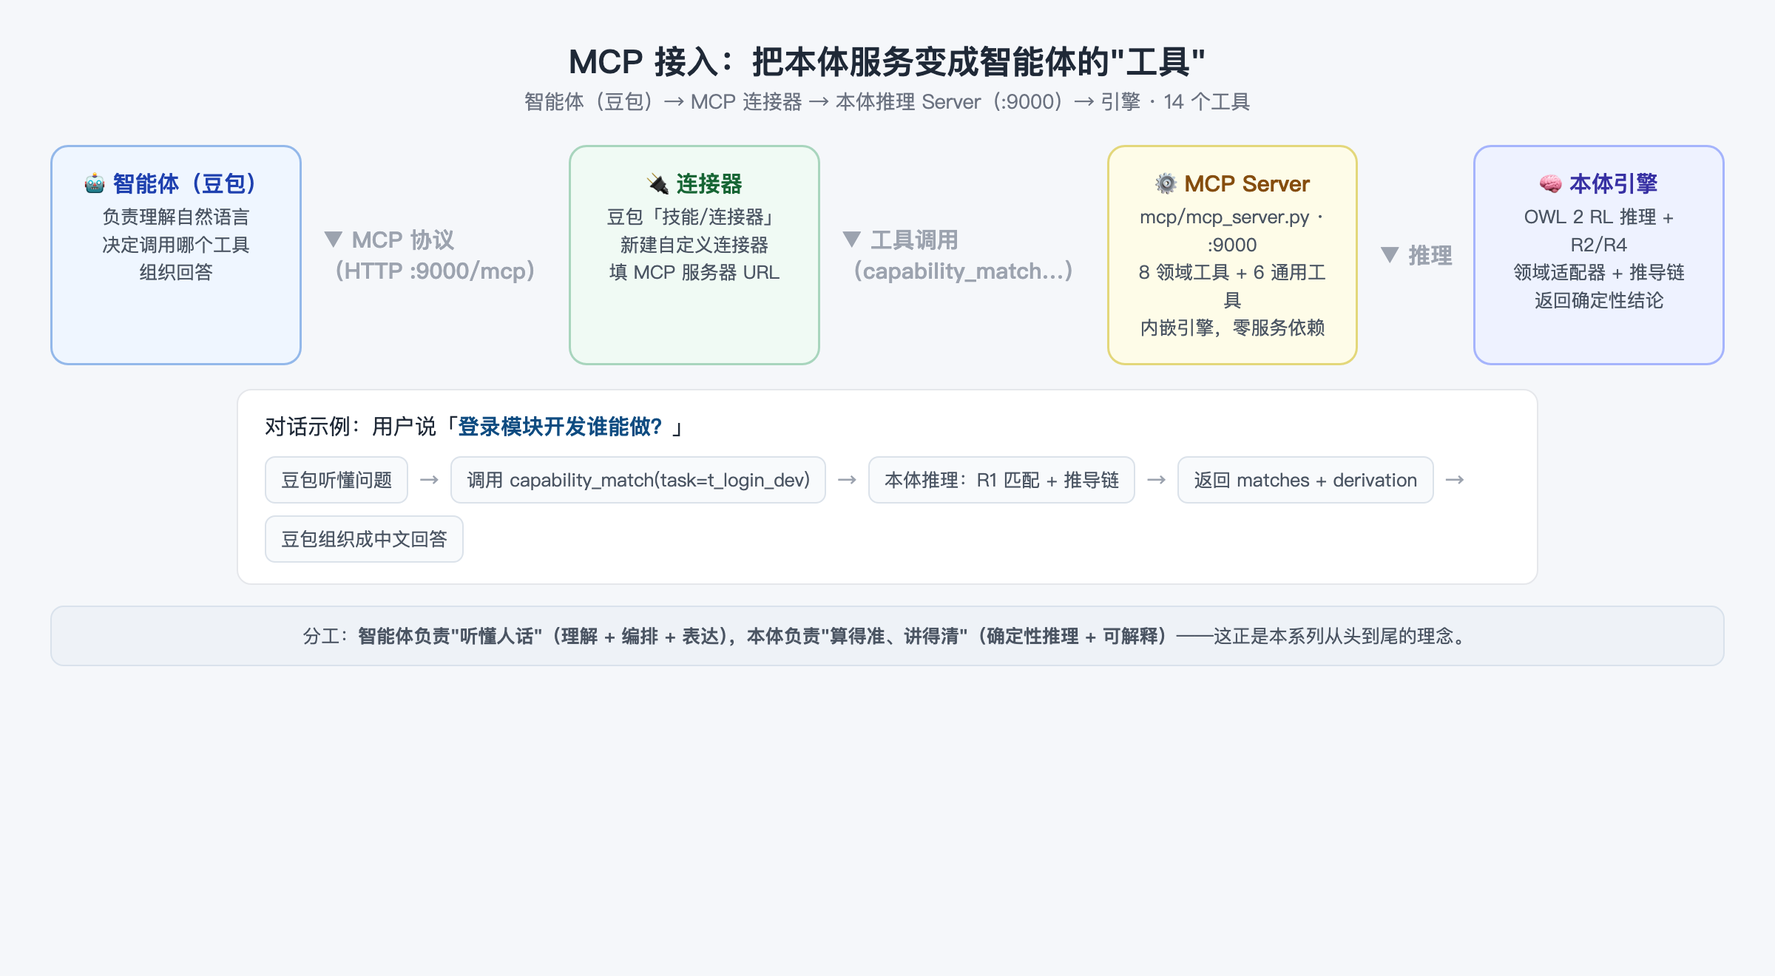
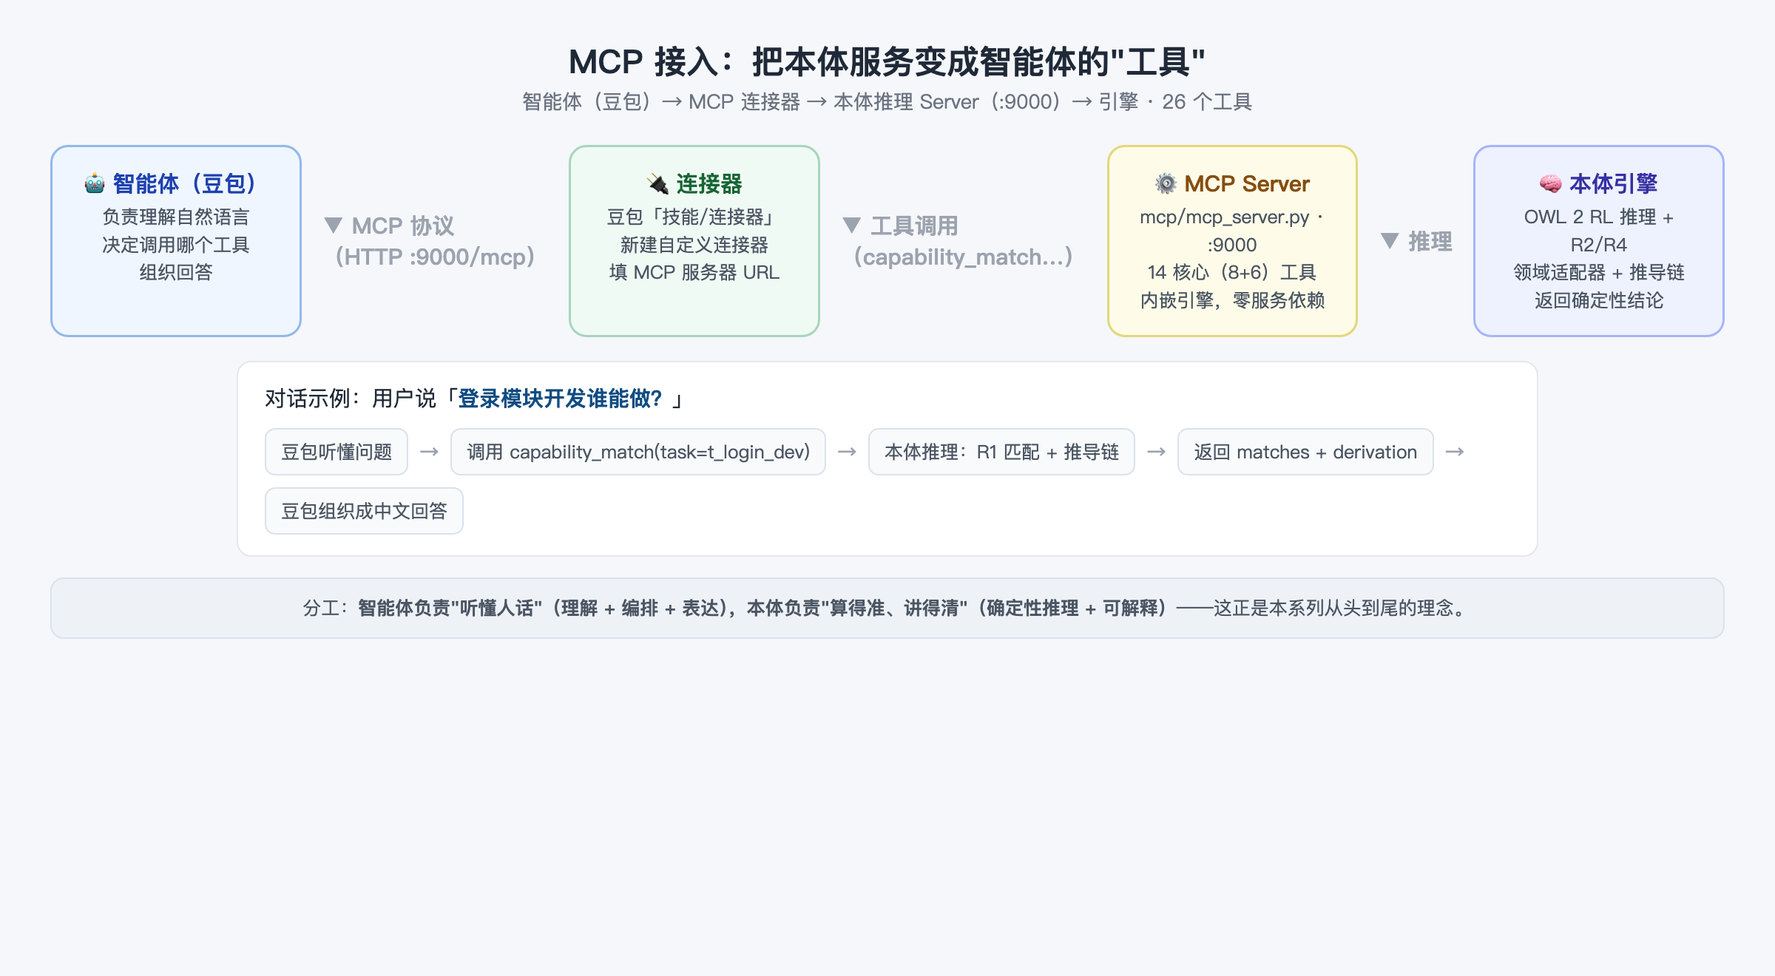
docs: 打磨本体上手指南系列（对齐真实功能、清除 GitHub 引流、清理死文件）
- 修正跨篇引用：05 新标题、工具数 26/端点 24、测试 178、infer 776→824

- 06 配图重渲为 2x PNG，对齐真实 26 工具（14 核心 + 12 进阶）

- 删除 05 重写遗留的 05-architecture 死文件（html + png）

- 清除全系列 GitHub 引流：开头引用块、结尾「获取项目」小节、README 在线阅读链接

diff --git a/docs/guide/assets/06-mcp-arch.html b/docs/guide/assets/06-mcp-arch.html
@@ -30,7 +30,7 @@
 <body>
 <div class="wrap">
   <div class="title">MCP 接入：把本体服务变成智能体的"工具"</div>
-  <div class="sub">智能体（豆包）→ MCP 连接器 → 本体推理 Server（:9000）→ 引擎 · 14 个工具</div>
+  <div class="sub">智能体（豆包）→ MCP 连接器 → 本体推理 Server（:9000）→ 引擎 · 26 个工具</div>
 
   <div class="row">
     <div class="box b1">
@@ -45,7 +45,7 @@
     <div class="conn">▼ 工具调用<br>（capability_match…）</div>
     <div class="box b3">
       <div class="en">⚙ MCP Server</div>
-      <div class="zh">mcp/mcp_server.py · :9000<br>8 领域工具 + 6 通用工具<br>内嵌引擎，零服务依赖</div>
+      <div class="zh">mcp/mcp_server.py · :9000<br>14 核心（8+6）工具<br>内嵌引擎，零服务依赖</div>
     </div>
     <div class="conn">▼ 推理</div>
     <div class="box b4">

diff --git a/docs/guide/06-MCP接入智能体.md b/docs/guide/06-MCP接入智能体.md
@@ -1,7 +1,5 @@
 # 06 用 MCP 把本体服务接入智能体
 > 本文是《本体上手指南》系列第 7 篇（共 9 篇），零基础入门「本体 × 智能体」。
-> 完整系列文章与全部源码都在 GitHub：**https://github.com/jasony62/ontology-agent-demo**（欢迎 Star / Fork / Issue）
-> 在线免费阅读（GitHub Pages）：https://jasony62.github.io/ontology-agent-demo/
 
 > 阅读时长：约 12 分钟 · 配套动手：约 8 分钟
 > **读完你能**：把本体推理服务接进豆包，让它在对话里直接调用推理工具——"智能体 × 本体"正式合体
@@ -45,11 +43,11 @@ docker compose up -d mcp    # 容器内启动 MCP Server（:9000）
 2. 传输类型选 **HTTP**，MCP 服务器 URL 填 `http://127.0.0.1:9000/mcp`；
 3. 保存后即可在对话中直接调用本体推理工具。
 
-> 连接器本质：把"对话中能看到哪些工具"告诉豆包。保存后豆包就"认识"了本体的 14 个工具。
+> 连接器本质：把"对话中能看到哪些工具"告诉豆包。保存后豆包就"认识"了本体的 26 个工具。
 
-## 第 3 步：认识 14 个工具
+## 第 3 步：认识 26 个工具
 
-服务共暴露 **14 个工具**：8 个领域工具（业务语义）+ 6 个通用工具（与本体无关）。
+服务共暴露 **26 个工具**，分「核心业务工具」与「进阶 / 作者态工具」两组。核心 14 个是接入对话最常用、也是本篇演示用到的；进阶 12 个面向本体建模、校验、守卫与证明，做"造自己的领域"（篇 8）时才会用到。
 
 **领域工具（8 个，走适配器）**
 
@@ -76,6 +74,23 @@ docker compose up -d mcp    # 容器内启动 MCP Server（:9000）
 | `infer` | — | 重新推理 + 三元组统计 |
 
 有个小细节很贴心：`entities` 工具专门用来"帮智能体选参数"——它返回全部任务/智能体/能力/约束的短名与中文标签，智能体不确定参数时先查它，避免瞎猜短名。
+
+**进阶 / 作者态工具（12 个，完整列表以 MCP `tools/list` 返回为准）**
+
+| 工具 | 说明 |
+|---|---|
+| `status` | 服务与当前领域状态自检 |
+| `active_facts` | 查看推理后的"激活事实"图（raw → g 的结果） |
+| `explain_proof` | 机读证明树（`proof`，与 `explain` 的人读推导链互补） |
+| `predefined_queries` | 列出预置的 SPARQL 查询模板 |
+| `run_predefined_query` | 按名运行一条预置查询 |
+| `guide_tbox_draft` | 引导式草拟 TBox（类 / 属性 / 公理） |
+| `validate_tbox_draft` | 校验草拟 TBox 的合法性 |
+| `validate_shapes` | 校验 SHACL Shapes |
+| `guide_cq_generation` | 引导生成本体能力问题（CQ） |
+| `validate_cqs` | 校验能力问题（CQ） |
+| `guard_status` | 查看守卫（guard）状态 |
+| `pipeline_gate` | 流水线闸门状态与触发 |
 
 ## 第 4 步：对话演示完整链路
 
@@ -105,16 +120,16 @@ docker compose up -d mcp    # 容器内启动 MCP Server（:9000）
 |---|---|---|
 | 面向 | 前端页面、脚本、任何 HTTP 客户端 | 智能体（豆包连接器等 MCP 客户端） |
 | 协议 | HTTP + JSON | MCP（JSON-RPC / SSE） |
-| 工具/端点 | 11 个端点 | 14 个工具 |
+| 工具/端点 | 24 个端点 | 26 个工具 |
 | 依赖 | 独立进程 | 内嵌引擎，不依赖 REST |
 
-两者共享**同一套引擎与领域包**——这就是篇 5 架构图的"多通道出口"：**同一种能力，按消费方选通道**。脚本和前端走 REST；智能体走 MCP。
+两者共享**同一套引擎与领域包**——这就是篇 5（搭建本体推理服务）所讲的服务"多通道出口"：**同一种能力，按消费方选通道**。脚本和前端走 REST；智能体走 MCP。
 
 ## 小结
 
 1. **MCP = 智能体的 USB 接口**：能力封装成标准工具，智能体自动发现、按说明调用。
 2. **一行命令启动**：`docker compose up -d mcp`，内嵌引擎零依赖；豆包侧边栏加连接器即可接入。
-3. **14 个工具**：8 领域（匹配/编排/分配/分类/一致性/解释/图谱/实体）+ 6 通用（SPARQL 等）。
+3. **26 个工具**：14 核心（匹配/编排/分配/分类/一致性/解释/图谱/实体 + SPARQL 等通用）+ 12 进阶（建模/校验/守卫/证明，篇 8 用到）。
 4. **智能体听懂人话，本体算得准讲得清**——MCP 是两者的"合体通道"。
 
 **常见问题**
@@ -123,20 +138,6 @@ docker compose up -d mcp    # 容器内启动 MCP Server（:9000）
   A：REST 是"人/程序按文档调用"；MCP 是"智能体自动发现并调用"——工具带机器可读的 schema 和描述，智能体自己决定何时调用哪个。对本项目而言，二者背后是同一个引擎。
 - **Q：只能接豆包吗？**
   A：不是。任何 MCP 客户端都能接：`--transport stdio` 可接本地客户端 / Claude Desktop；streamable-http 可接其他支持 MCP 的智能体平台。
-
-## 获取项目：GitHub 一键直达
-
-本系列全部 9 篇文章、项目源码与可运行示例：
-
-- **GitHub 仓库**：https://github.com/jasony62/ontology-agent-demo（Star / Fork / Issue 都欢迎）
-- **在线阅读**：https://jasony62.github.io/ontology-agent-demo/（GitHub Pages 自动构建，含全部配图）
-- **本地一键运行**：
-
-  ```bash
-  git clone https://github.com/jasony62/ontology-agent-demo.git
-  cd ontology-agent-demo
-  docker compose up -d api
-  ```
 
 ---
 **下一篇**：篇 7《智能体 × 本体协作实战》——总结分工模型与最佳实践，并教你判断"什么时候该用本体"。

diff --git a/docs/guide/03-本体推理原理.md b/docs/guide/03-本体推理原理.md
@@ -1,7 +1,5 @@
 # 03 本体推理原理：从公理到推导链
 > 本文是《本体上手指南》系列第 4 篇（共 9 篇），零基础入门「本体 × 智能体」。
-> 完整系列文章与全部源码都在 GitHub：**https://github.com/jasony62/ontology-agent-demo**（欢迎 Star / Fork / Issue）
-> 在线免费阅读（GitHub Pages）：https://jasony62.github.io/ontology-agent-demo/
 
 > 阅读时长：约 15 分钟 · 配套动手：约 8 分钟
 > **读完你能**：说清"机器如何从显式知识推出隐式知识"，理解 R1–R4 各自由谁实现，并能读懂推导链
@@ -156,7 +154,7 @@ docker compose exec api python scripts/query.py assign \
 实测推理统计（`infer` 命令）：
 
 ```json
-{ "triples_before": 775, "triples_after": 824, "added": 49, "classes": 29, "individuals": 13 }
+{ "triples_before": 776, "triples_after": 824, "added": 49, "classes": 29, "individuals": 13 }
 ```
 
 一次推理新增 49 条三元组——绝大多数是 `can_execute` 和传递闭包，全部是"没写出来但必然成立"的知识。
@@ -190,7 +188,7 @@ docker compose exec api python scripts/query.py assign \
 
 ## 动手：跑一遍推理
 
-所有命令都在 Docker 容器内执行（依赖已内置，无需宿主机装 Python 环境；篇 5 会完整介绍服务的容器化用法）：
+所有命令都在 Docker 容器内执行（依赖已内置，无需宿主机装 Python 环境；篇 5（搭建本体推理服务）会完整介绍服务的容器化用法）：
 
 **方式一：HTTP API（Docker 启动服务）**
 
@@ -243,20 +241,6 @@ docker compose exec api python scripts/query.py infer --pretty                  
 | `rdf:type rdf:resource="...#TransitiveProperty"` | 给 `p` 打"传递属性"标签 | `depends_on` | `p rdf:type owl:TransitiveProperty` |
 
 > 记忆口诀：**`domain/range` 管"谁能连谁"，`inverseOf` 管"换个方向也能说"，`TransitiveProperty` 管"能跨步"，`propertyChainAxiom` 管"两步并一步"。** 下一篇用 SPARQL 直接"问"这张图。
-
-## 获取项目：GitHub 一键直达
-
-本系列全部 9 篇文章、项目源码与可运行示例：
-
-- **GitHub 仓库**：https://github.com/jasony62/ontology-agent-demo（Star / Fork / Issue 都欢迎）
-- **在线阅读**：https://jasony62.github.io/ontology-agent-demo/（GitHub Pages 自动构建，含全部配图）
-- **本地一键运行**：
-
-  ```bash
-  git clone https://github.com/jasony62/ontology-agent-demo.git
-  cd ontology-agent-demo
-  docker compose up -d api
-  ```
 
 ---
 **下一篇**：篇 4《本体与知识图谱：一张图看懂》——理清"本体"与"图数据库"这两个总被混为一谈的概念。

diff --git a/docs/guide/00-为什么需要本体.md b/docs/guide/00-为什么需要本体.md
@@ -1,7 +1,5 @@
 # 00 为什么需要本体
 > 本文是《本体上手指南》系列第 1 篇（共 9 篇），零基础入门「本体 × 智能体」。
-> 完整系列文章与全部源码都在 GitHub：**https://github.com/jasony62/ontology-agent-demo**（欢迎 Star / Fork / Issue）
-> 在线免费阅读（GitHub Pages）：https://jasony62.github.io/ontology-agent-demo/
 
 > 阅读时长：约 8 分钟 · 配套动手：约 5 分钟
 > **读完你能**：说清"为什么要用本体"，并看懂本系列的学习路径
@@ -59,7 +57,7 @@
 | | 篇 2 解剖示例本体：智能体任务编排 | 看清"这个本体里有什么" |
 | **B 推理与图谱** | 篇 3 本体推理原理：从公理到推导链 | 理解机器如何"推出"结论 |
 | | 篇 4 本体与知识图谱：一张图看懂 | 讲清本体和图的区别 |
-| **C 服务搭建** | 篇 5 半小时搭建本体推理服务 | 独立跑起 REST API + CLI |
+| **C 服务搭建** | 篇 5 搭建本体推理服务 | 独立跑起 REST API + CLI |
 | | 篇 6 用 MCP 把本体服务接入智能体 | 把服务接入豆包对话 |
 | **D 智能体应用** | 篇 7 智能体 × 本体协作实战 | 设计自己的"智能体+本体"应用 |
 | | 篇 8 把本体服务变成你自己的 | 换本体、新建领域、加规则 |
@@ -106,20 +104,6 @@ docker compose up -d api
   A：数据库负责"存"和"查"；本体除了组织知识，还能用规则**推理**出没存过的结论（比如"研发 Agent 可执行登录开发"并不是手工存进去的）。具体差别在篇 4 讲透。
 - **Q：需要先学会 OWL 或 Protege 吗？**
   A：完全不需要。本系列从零开始，篇 1 只用"类、个体、属性"三个词就能讲清本体的骨架；Protege 只是篇 2 的一个可选工具。
-
-## 获取项目：GitHub 一键直达
-
-本系列全部 9 篇文章、项目源码与可运行示例：
-
-- **GitHub 仓库**：https://github.com/jasony62/ontology-agent-demo（Star / Fork / Issue 都欢迎）
-- **在线阅读**：https://jasony62.github.io/ontology-agent-demo/（GitHub Pages 自动构建，含全部配图）
-- **本地一键运行**：
-
-  ```bash
-  git clone https://github.com/jasony62/ontology-agent-demo.git
-  cd ontology-agent-demo
-  docker compose up -d api
-  ```
 
 ---
 **下一篇**：篇 1《本体入门：类、个体、属性与关系》——用三个词读懂本体的骨架。

diff --git a/docs/guide/README.md b/docs/guide/README.md
@@ -4,7 +4,6 @@
 
 > 全程动手，命令在仓库根目录（`ontology-agent-demo/`）下可复现；配图源文件与 PNG 均在 `docs/guide/assets/`。
 > **零 OWL 基础友好**：篇 1/3/8 文末均附「本文用到的 OWL 语法」速查附录，正文在给出 .owl 片段时同步逐行讲解。
-> 在线阅读：[GitHub Pages 站点](https://jasony62.github.io/ontology-agent-demo/)（由本目录经 MkDocs 自动构建）。
 
 ## 学习路径
 
@@ -31,6 +30,8 @@
 | [07-智能体协作实战.md](07-智能体协作实战.md) | 智能体 × 本体实战 | 设计自己的协作应用，判断何时用本体 |
 | [08-扩展新领域.md](08-扩展新领域.md) | 扩展新领域 | 换本体、新建领域、加规则与查询 |
 
+> **编号对照（重要）**：本指南的篇号与「用户手册」的篇号**不同**——例如本指南的 **篇 5（搭建本体推理服务）** 正是用户手册的 **08 搭建本体推理服务**。两者是同一主题的两层：指南偏"入门讲解"，手册偏"操作参考"。跨文档跳转时认准主题名，别被编号带偏。
+
 ## 快速环境准备（Docker）
 
 无需安装任何 Python 依赖——用 Docker 一条命令起服务：
@@ -42,7 +43,7 @@ docker compose up -d     # 构建镜像并后台启动 API(:8000) + MCP(:9000)
 
 首次构建会自动拉取基础镜像并安装依赖（Dockerfile 默认用清华 TUNA pip 源）；之后秒级启动。
 
-验证（29 项测试全绿，在容器内执行）：
+验证（178 项测试全绿，在容器内执行）：
 
 ```bash
 docker compose exec api python -m pytest tests/ -q
@@ -88,7 +89,7 @@ docker compose exec api python -m pytest tests/ -q
 | 02-overview.png | 篇 2：本体全景 |
 | 03-r1-flow.png / 03-derivation.png | 篇 3：属性链流程 / 推导链 |
 | 04-lpg-vs-rdf.png | 篇 4：属性图 vs 语义图 |
-| 05-architecture.png | 篇 5：三层架构 |
+| 05-framework-overview.png / 05-ontology-components.png / 05-reasoning-flow.png / 05-explanation-layers.png | 篇 5：框架总览 / 四构件 / 推理流 / 解释层（共 4 张） |
 | 06-mcp-arch.png | 篇 6：MCP 接入链路 |
 | 07-sequence.png | 篇 7：协作时序 |
 | 08-extend.png | 篇 8：三条扩展路径 |

diff --git a/docs/guide/04-本体与知识图谱.md b/docs/guide/04-本体与知识图谱.md
@@ -1,7 +1,5 @@
 # 04 本体与知识图谱：一张图看懂
 > 本文是《本体上手指南》系列第 5 篇（共 9 篇），零基础入门「本体 × 智能体」。
-> 完整系列文章与全部源码都在 GitHub：**https://github.com/jasony62/ontology-agent-demo**（欢迎 Star / Fork / Issue）
-> 在线免费阅读（GitHub Pages）：https://jasony62.github.io/ontology-agent-demo/
 
 > 阅读时长：约 10 分钟 · 配套动手：约 5 分钟
 > **读完你能**：向别人讲清"本体"和"图数据库"的区别，并知道什么场景该选谁
@@ -116,19 +114,5 @@ curl -s -X POST http://127.0.0.1:8000/api/query \
 - **Q：为什么不用 Neo4j 而要自己搭推理？**
   A：Neo4j 是图数据库，不内置 OWL 推理。要推理就得外接规则引擎或用 APOC 等插件手写——这正是本项目用 owlrl 直接解决的问题（篇 5 会看到它有多轻）。
 
-## 获取项目：GitHub 一键直达
-
-本系列全部 9 篇文章、项目源码与可运行示例：
-
-- **GitHub 仓库**：https://github.com/jasony62/ontology-agent-demo（Star / Fork / Issue 都欢迎）
-- **在线阅读**：https://jasony62.github.io/ontology-agent-demo/（GitHub Pages 自动构建，含全部配图）
-- **本地一键运行**：
-
-  ```bash
-  git clone https://github.com/jasony62/ontology-agent-demo.git
-  cd ontology-agent-demo
-  docker compose up -d api
-  ```
-
 ---
-**下一篇**：篇 5《半小时搭建本体推理服务》——把前面讲的概念，变成一个你能跑起来、能调用的 REST API + CLI。
+**下一篇**：篇 5《搭建本体推理服务》——把前面讲的概念，变成一个你能跑起来、能调用的 REST API + CLI。

diff --git a/docs/guide/01-本体入门.md b/docs/guide/01-本体入门.md
@@ -1,7 +1,5 @@
 # 01 本体入门：类、个体、属性与关系
 > 本文是《本体上手指南》系列第 2 篇（共 9 篇），零基础入门「本体 × 智能体」。
-> 完整系列文章与全部源码都在 GitHub：**https://github.com/jasony62/ontology-agent-demo**（欢迎 Star / Fork / Issue）
-> 在线免费阅读（GitHub Pages）：https://jasony62.github.io/ontology-agent-demo/
 
 > 阅读时长：约 12 分钟 · 配套动手：约 5 分钟
 > **读完你能**：用"类、个体、属性"三个词描述任何本体，并读懂一个 `.owl` 文件的基本结构
@@ -149,20 +147,6 @@ curl -s -X POST http://127.0.0.1:8000/api/classes | python3 -m json.tool
 | `rdf:about` / `rdf:resource` | 定义一个新 ID / 引用一个已有 ID | `#DevAgent`（定义）、`#Agent`（引用） | —（ID 的写法） |
 
 > 记忆口诀：**"是什么"由 `owl:Class` 说，"是谁的子类"由 `subClassOf` 说，"给人看的名字"写在 `label` 里。** 下一篇用同样的读法解剖示例本体的全部类、个体与属性。
-
-## 获取项目：GitHub 一键直达
-
-本系列全部 9 篇文章、项目源码与可运行示例：
-
-- **GitHub 仓库**：https://github.com/jasony62/ontology-agent-demo（Star / Fork / Issue 都欢迎）
-- **在线阅读**：https://jasony62.github.io/ontology-agent-demo/（GitHub Pages 自动构建，含全部配图）
-- **本地一键运行**：
-
-  ```bash
-  git clone https://github.com/jasony62/ontology-agent-demo.git
-  cd ontology-agent-demo
-  docker compose up -d api
-  ```
 
 ---
 **下一篇**：篇 2《解剖示例本体：智能体任务编排》——把 9 个属性、13 个个体的"关系网"完整摊开。

diff --git a/docs/guide/02-解剖示例本体.md b/docs/guide/02-解剖示例本体.md
@@ -1,7 +1,5 @@
 # 02 解剖示例本体：智能体任务编排
 > 本文是《本体上手指南》系列第 3 篇（共 9 篇），零基础入门「本体 × 智能体」。
-> 完整系列文章与全部源码都在 GitHub：**https://github.com/jasony62/ontology-agent-demo**（欢迎 Star / Fork / Issue）
-> 在线免费阅读（GitHub Pages）：https://jasony62.github.io/ontology-agent-demo/
 
 > 阅读时长：约 12 分钟 · 配套动手：约 5 分钟
 > **读完你能**：完整描述"这个本体里有什么"——9 个属性、13 个个体的关系网，并看懂 TBox 与 ABox 的区别
@@ -126,20 +124,6 @@ curl -s -X POST http://127.0.0.1:8000/api/property \
   A：一个说"我有"（智能体视角），一个说"我需要"（任务视角），方向正好相反。把它俩"接起来"就能推出"谁能做"——这就是篇 3 的 R1 属性链。
 - **Q：8 个任务的短名记不住怎么办？**
   A：不用记。MCP 里有 `entities` 工具、API 有 `/api/individuals` 随时枚举；这里的表格只是帮你建立直觉。
-
-## 获取项目：GitHub 一键直达
-
-本系列全部 9 篇文章、项目源码与可运行示例：
-
-- **GitHub 仓库**：https://github.com/jasony62/ontology-agent-demo（Star / Fork / Issue 都欢迎）
-- **在线阅读**：https://jasony62.github.io/ontology-agent-demo/（GitHub Pages 自动构建，含全部配图）
-- **本地一键运行**：
-
-  ```bash
-  git clone https://github.com/jasony62/ontology-agent-demo.git
-  cd ontology-agent-demo
-  docker compose up -d api
-  ```
 
 ---
 **下一篇**：篇 3《本体推理原理：从公理到推导链》——揭晓 `can_execute` 是如何被"推"出来的。

diff --git a/docs/guide/08-扩展新领域.md b/docs/guide/08-扩展新领域.md
@@ -1,7 +1,5 @@
 # 08 把本体服务变成你自己的
 > 本文是《本体上手指南》系列第 9 篇（共 9 篇），零基础入门「本体 × 智能体」。
-> 完整系列文章与全部源码都在 GitHub：**https://github.com/jasony62/ontology-agent-demo**（欢迎 Star / Fork / Issue）
-> 在线免费阅读（GitHub Pages）：https://jasony62.github.io/ontology-agent-demo/
 
 > 阅读时长：约 12 分钟 · 配套动手：约 15 分钟
 > **读完你能**：换掉示例本体、新建自己的领域、加自己的规则与查询——从"会用"到"能造"
@@ -186,20 +184,6 @@ domains/<name>/
 | `owl:Class` / `owl:ObjectProperty` / `rdfs:label` / `rdf:about` / `rdf:resource` | ★ 篇 1 / 篇 3 已学，此处复习 | | |
 
 > 至此你已读完全系列出现的所有 OWL 语法：声明类、声明属性、限制方向（domain/range）、表达继承、传递、逆属性与属性链，以及声明个体与个体间的关系——**这份速查就是你自己建模时的最小工具箱**。
-
-## 获取项目：GitHub 一键直达
-
-本系列全部 9 篇文章、项目源码与可运行示例：
-
-- **GitHub 仓库**：https://github.com/jasony62/ontology-agent-demo（Star / Fork / Issue 都欢迎）
-- **在线阅读**：https://jasony62.github.io/ontology-agent-demo/（GitHub Pages 自动构建，含全部配图）
-- **本地一键运行**：
-
-  ```bash
-  git clone https://github.com/jasony62/ontology-agent-demo.git
-  cd ontology-agent-demo
-  docker compose up -d api
-  ```
 
 ---
 **全系列完**。想看完整的系列地图和学习路径，见 `docs/guide/README.md`（系列索引）。

diff --git a/docs/manual/README.md b/docs/manual/README.md
@@ -1,7 +1,7 @@
 # 用户手册 · 本体 × 智能体协作 Demo
 
 > 面向使用者：**系统有哪些功能、怎么用、边界在哪**。所有命令均经实测验证（基于运行服务实测：MCP server v1.3.0，2026-10-28）。
-> 配套阅读：《本体上手指南》（[在线阅读](https://jasony62.github.io/ontology-agent-demo/)）负责零基础教学；本手册负责查功能、查用法。
+> 配套阅读：《本体上手指南》，负责零基础教学；本手册负责查功能、查用法。
 
 ## 一、功能地图
 
